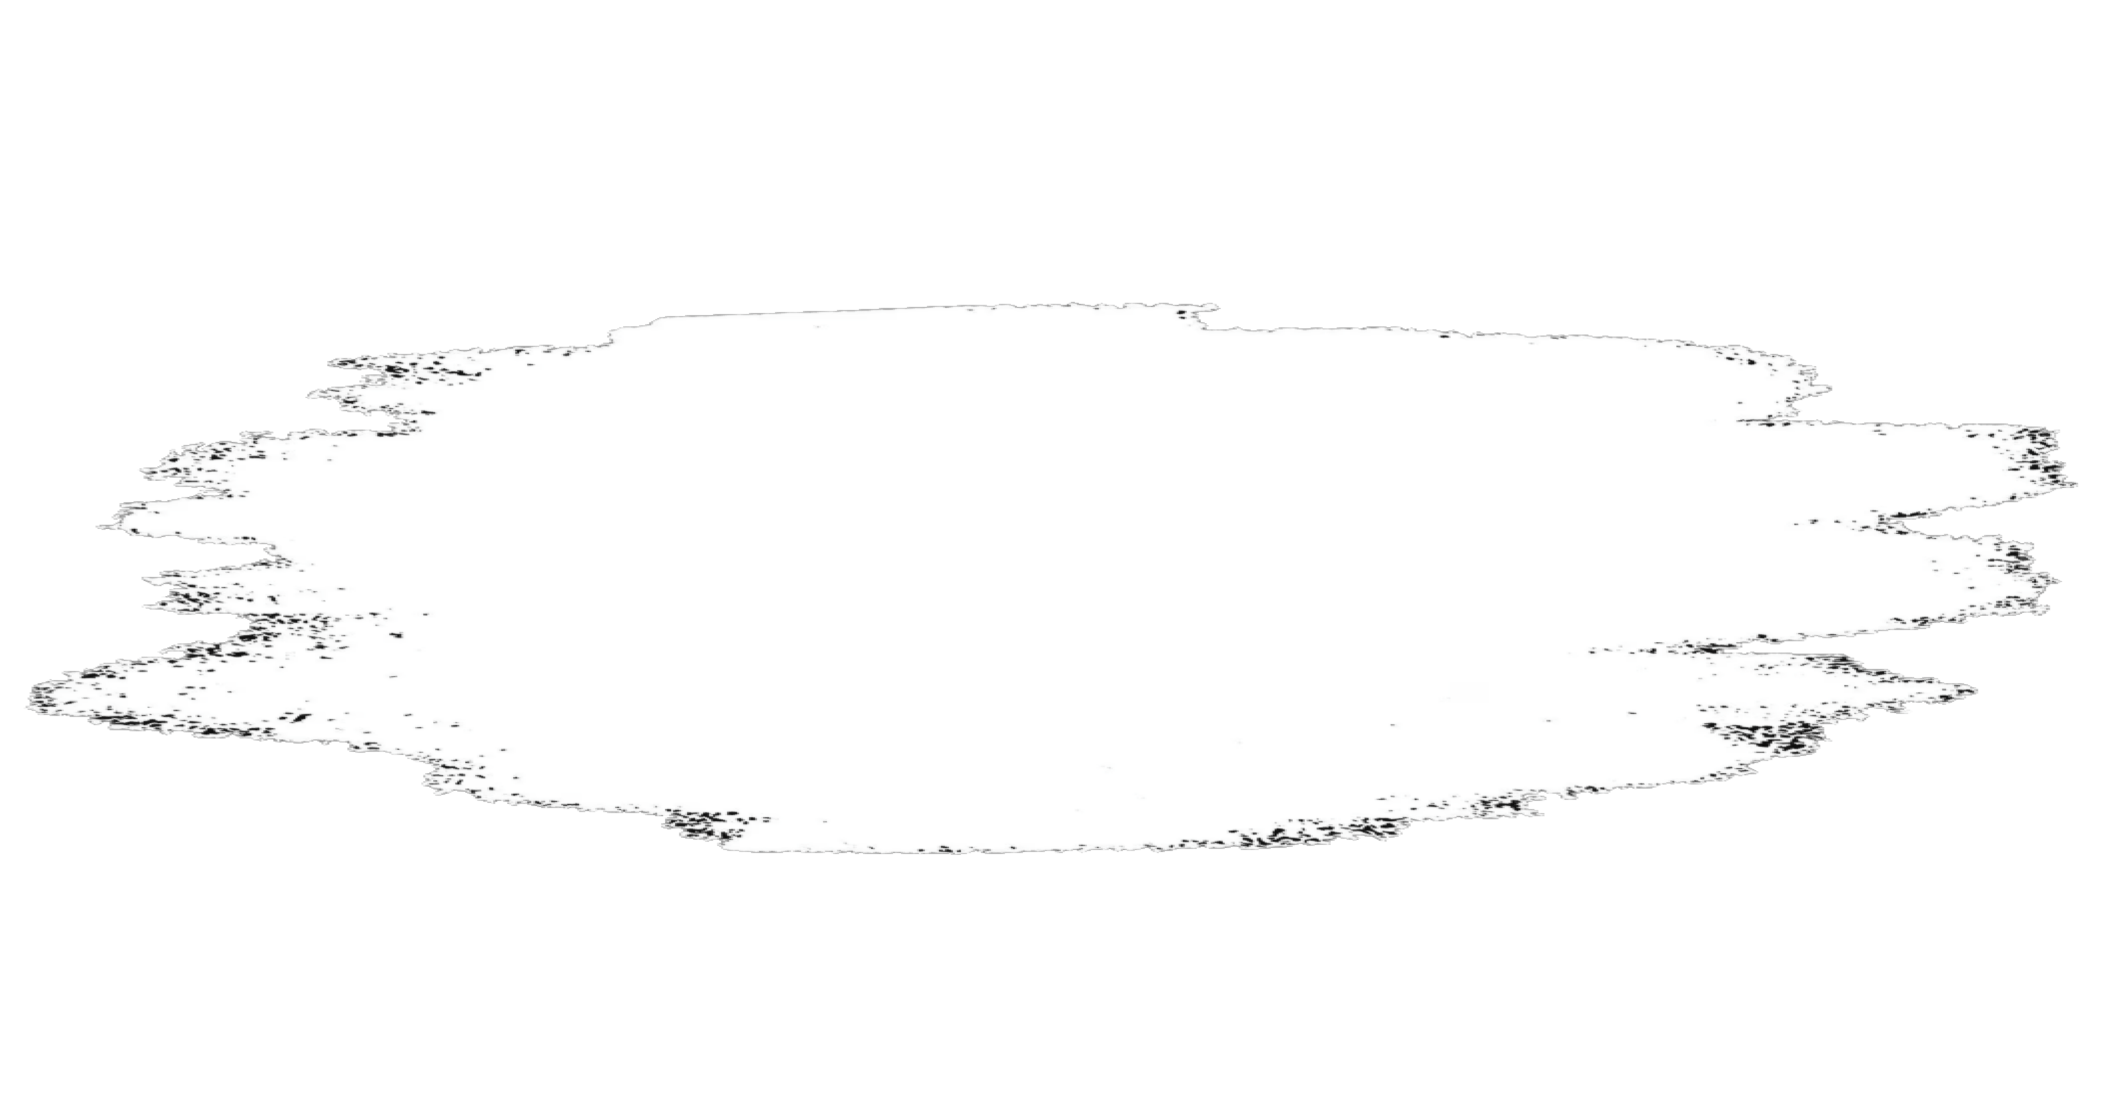
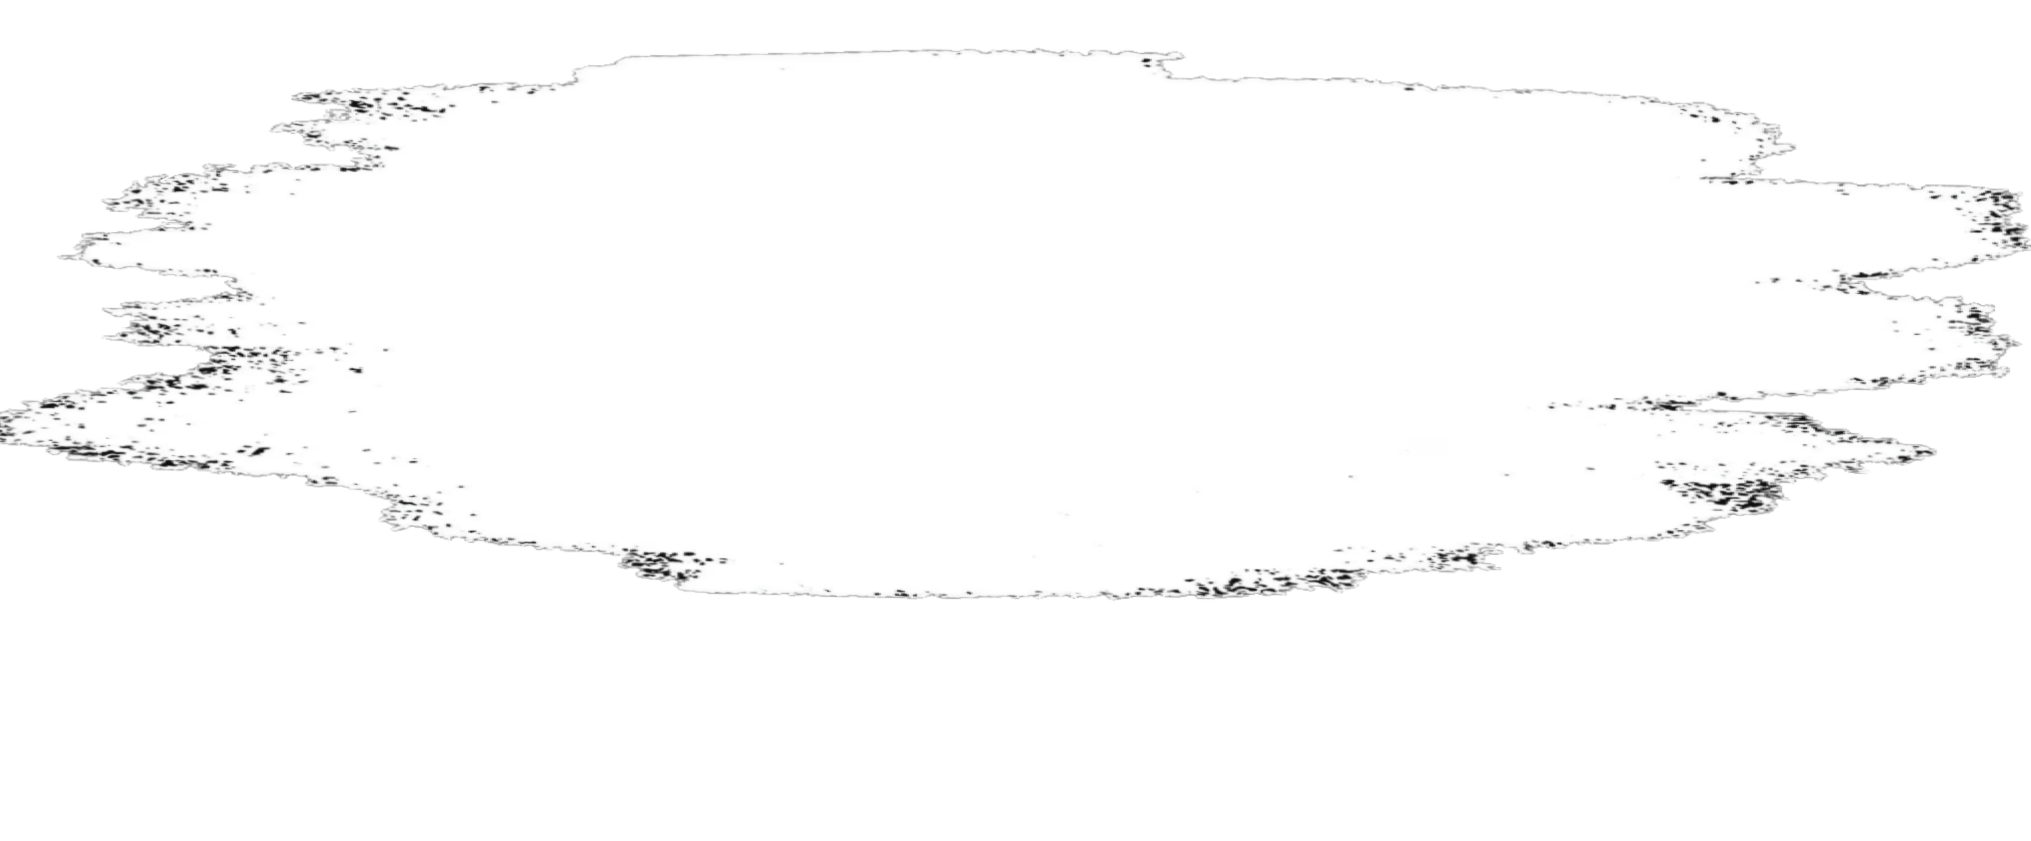
feat: 新增圖片(標題)在封面

diff --git a/frontend/src/components/pages/Welcome.vue b/frontend/src/components/pages/Welcome.vue
@@ -2,7 +2,7 @@
   <div class="cover-container">
     <div class="top-images-container">
       <img src="/images/white_pic.png" alt="Background Image" class="top-image background-image">
-      <img src="/images/title_pic.png" alt="Title Image" class="top-image foreground-image">
+      <img src="/images/title_pic.png" alt="Title Image" class="title-image foreground-image">
     </div>
     <div class="content">
       <h1 class="main-title"></h1>
@@ -63,10 +63,21 @@ const goToFeature = (feature) => {
   top: 0;
   left: 50%;
   transform: translateX(-50%);
+  height: 50%;
   width: 100%;
-  max-width: 500px; /* or any other size */
+  max-width: 900px; /* or any other size */
   z-index: 3;
-  opacity: 0.5;
+  opacity: 0.7;
+}
+
+.title-image {
+  position: absolute;
+  top: 0;
+  left: 50%;
+  transform: translateX(-50%);
+  width: 100%;
+  max-width: 800px; /* or any other size */
+  z-index: 3;
 }
 
 .cover-container {
